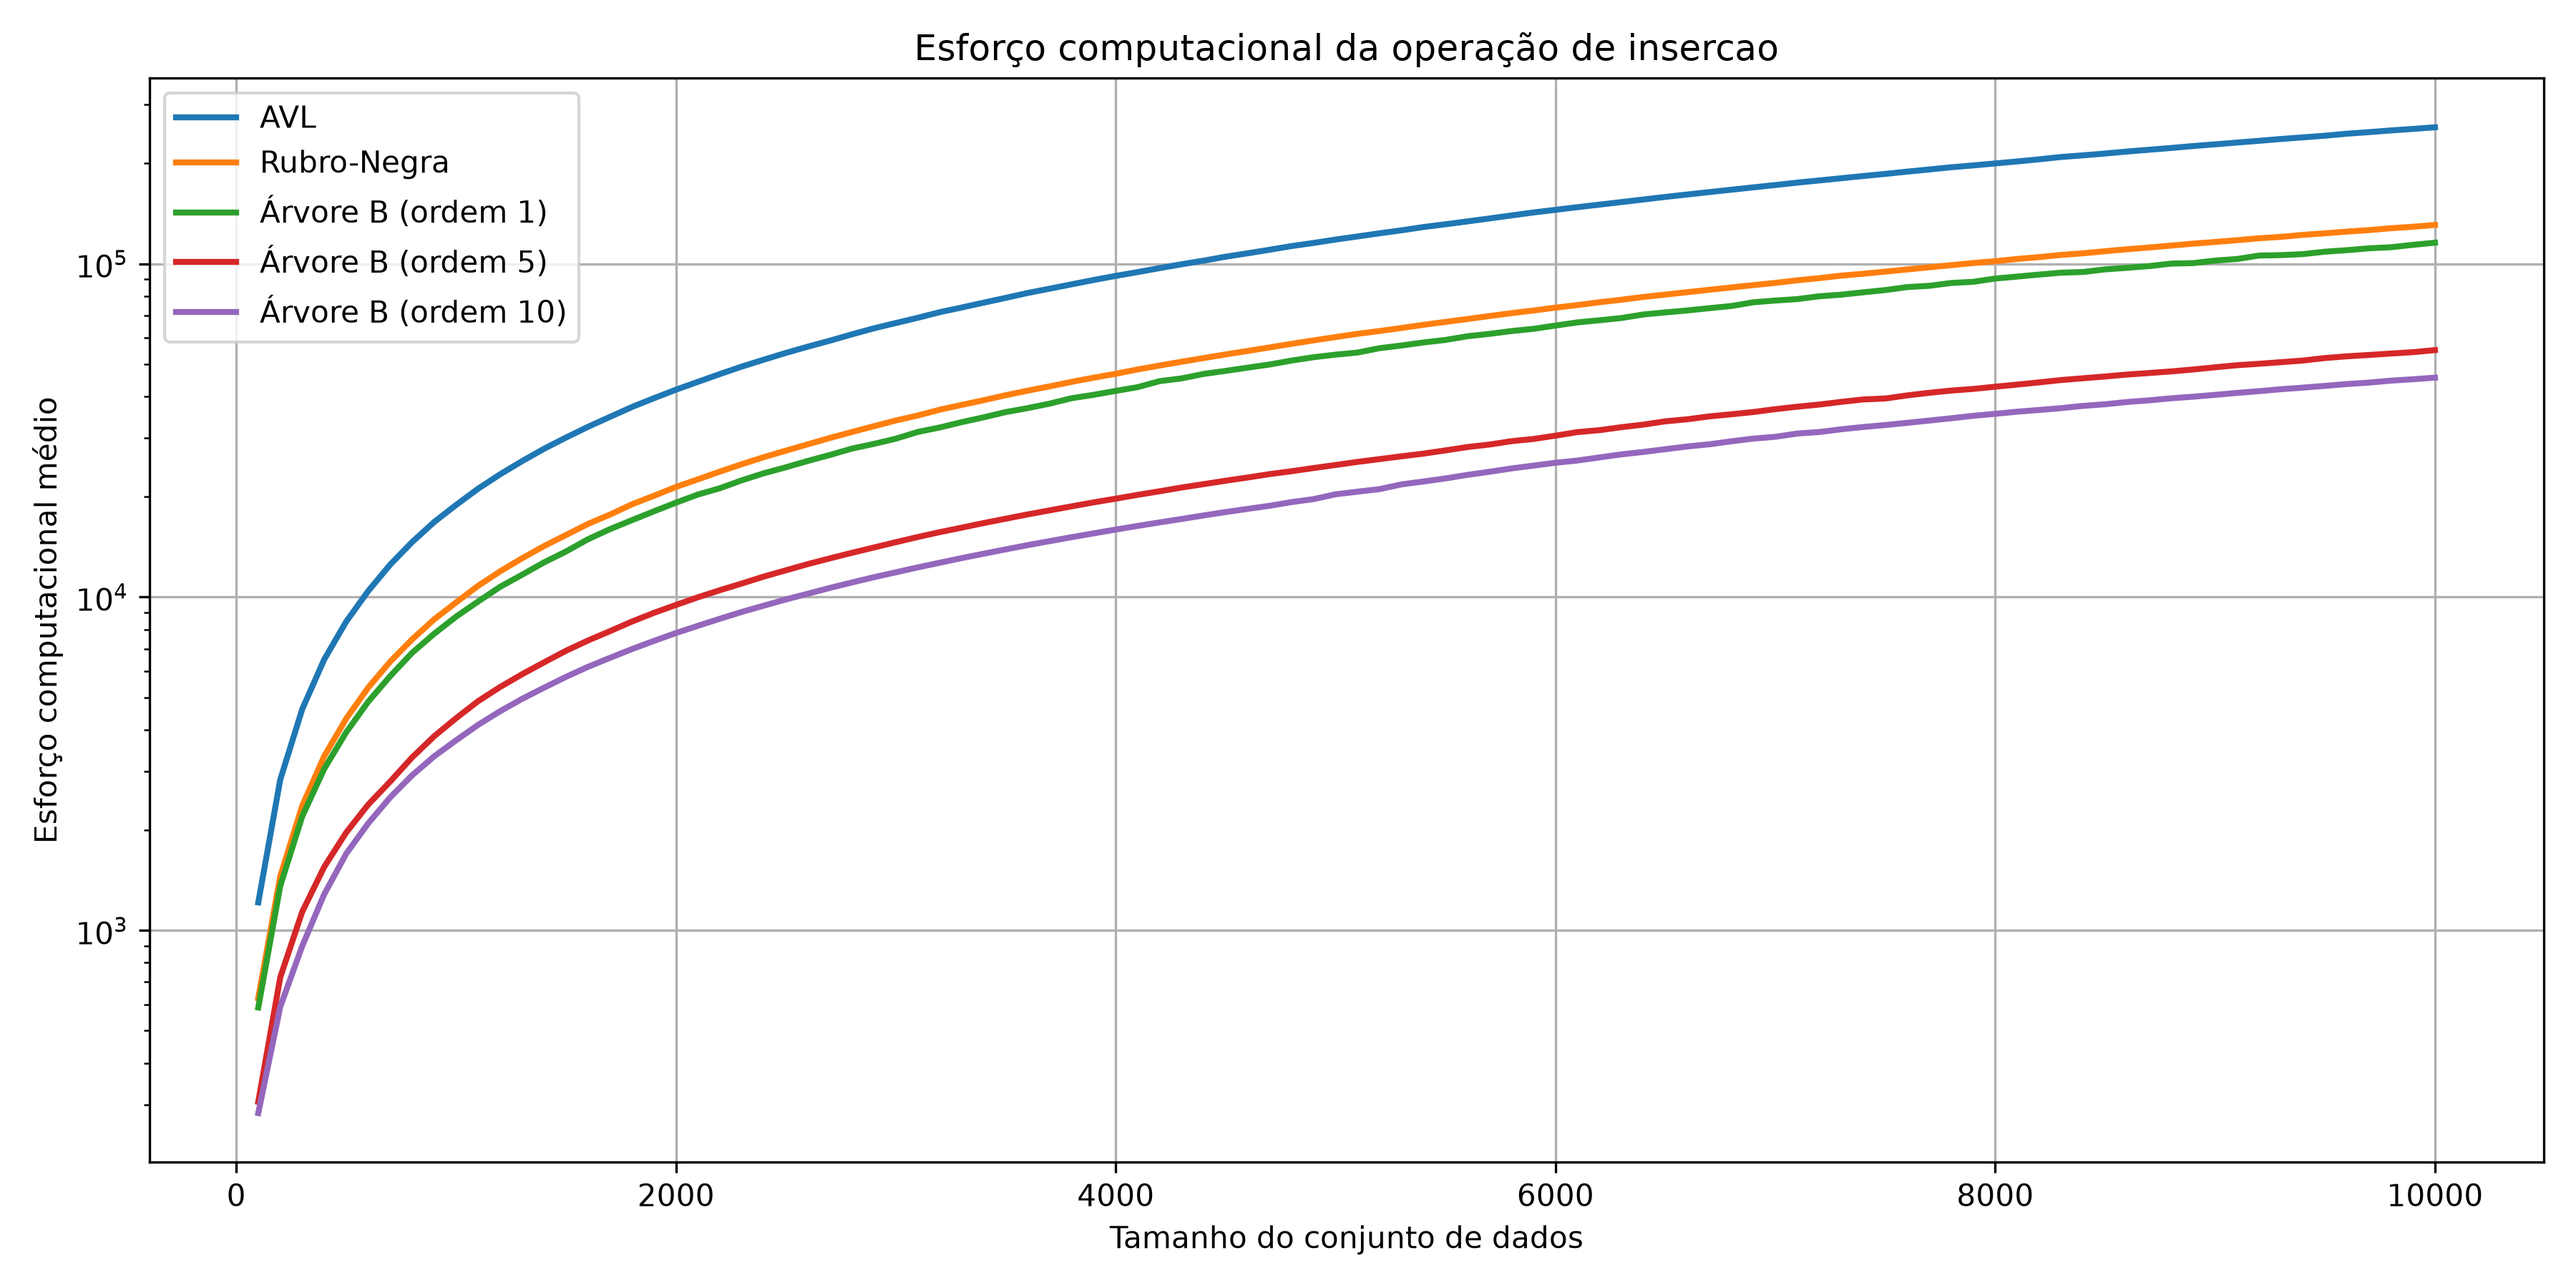
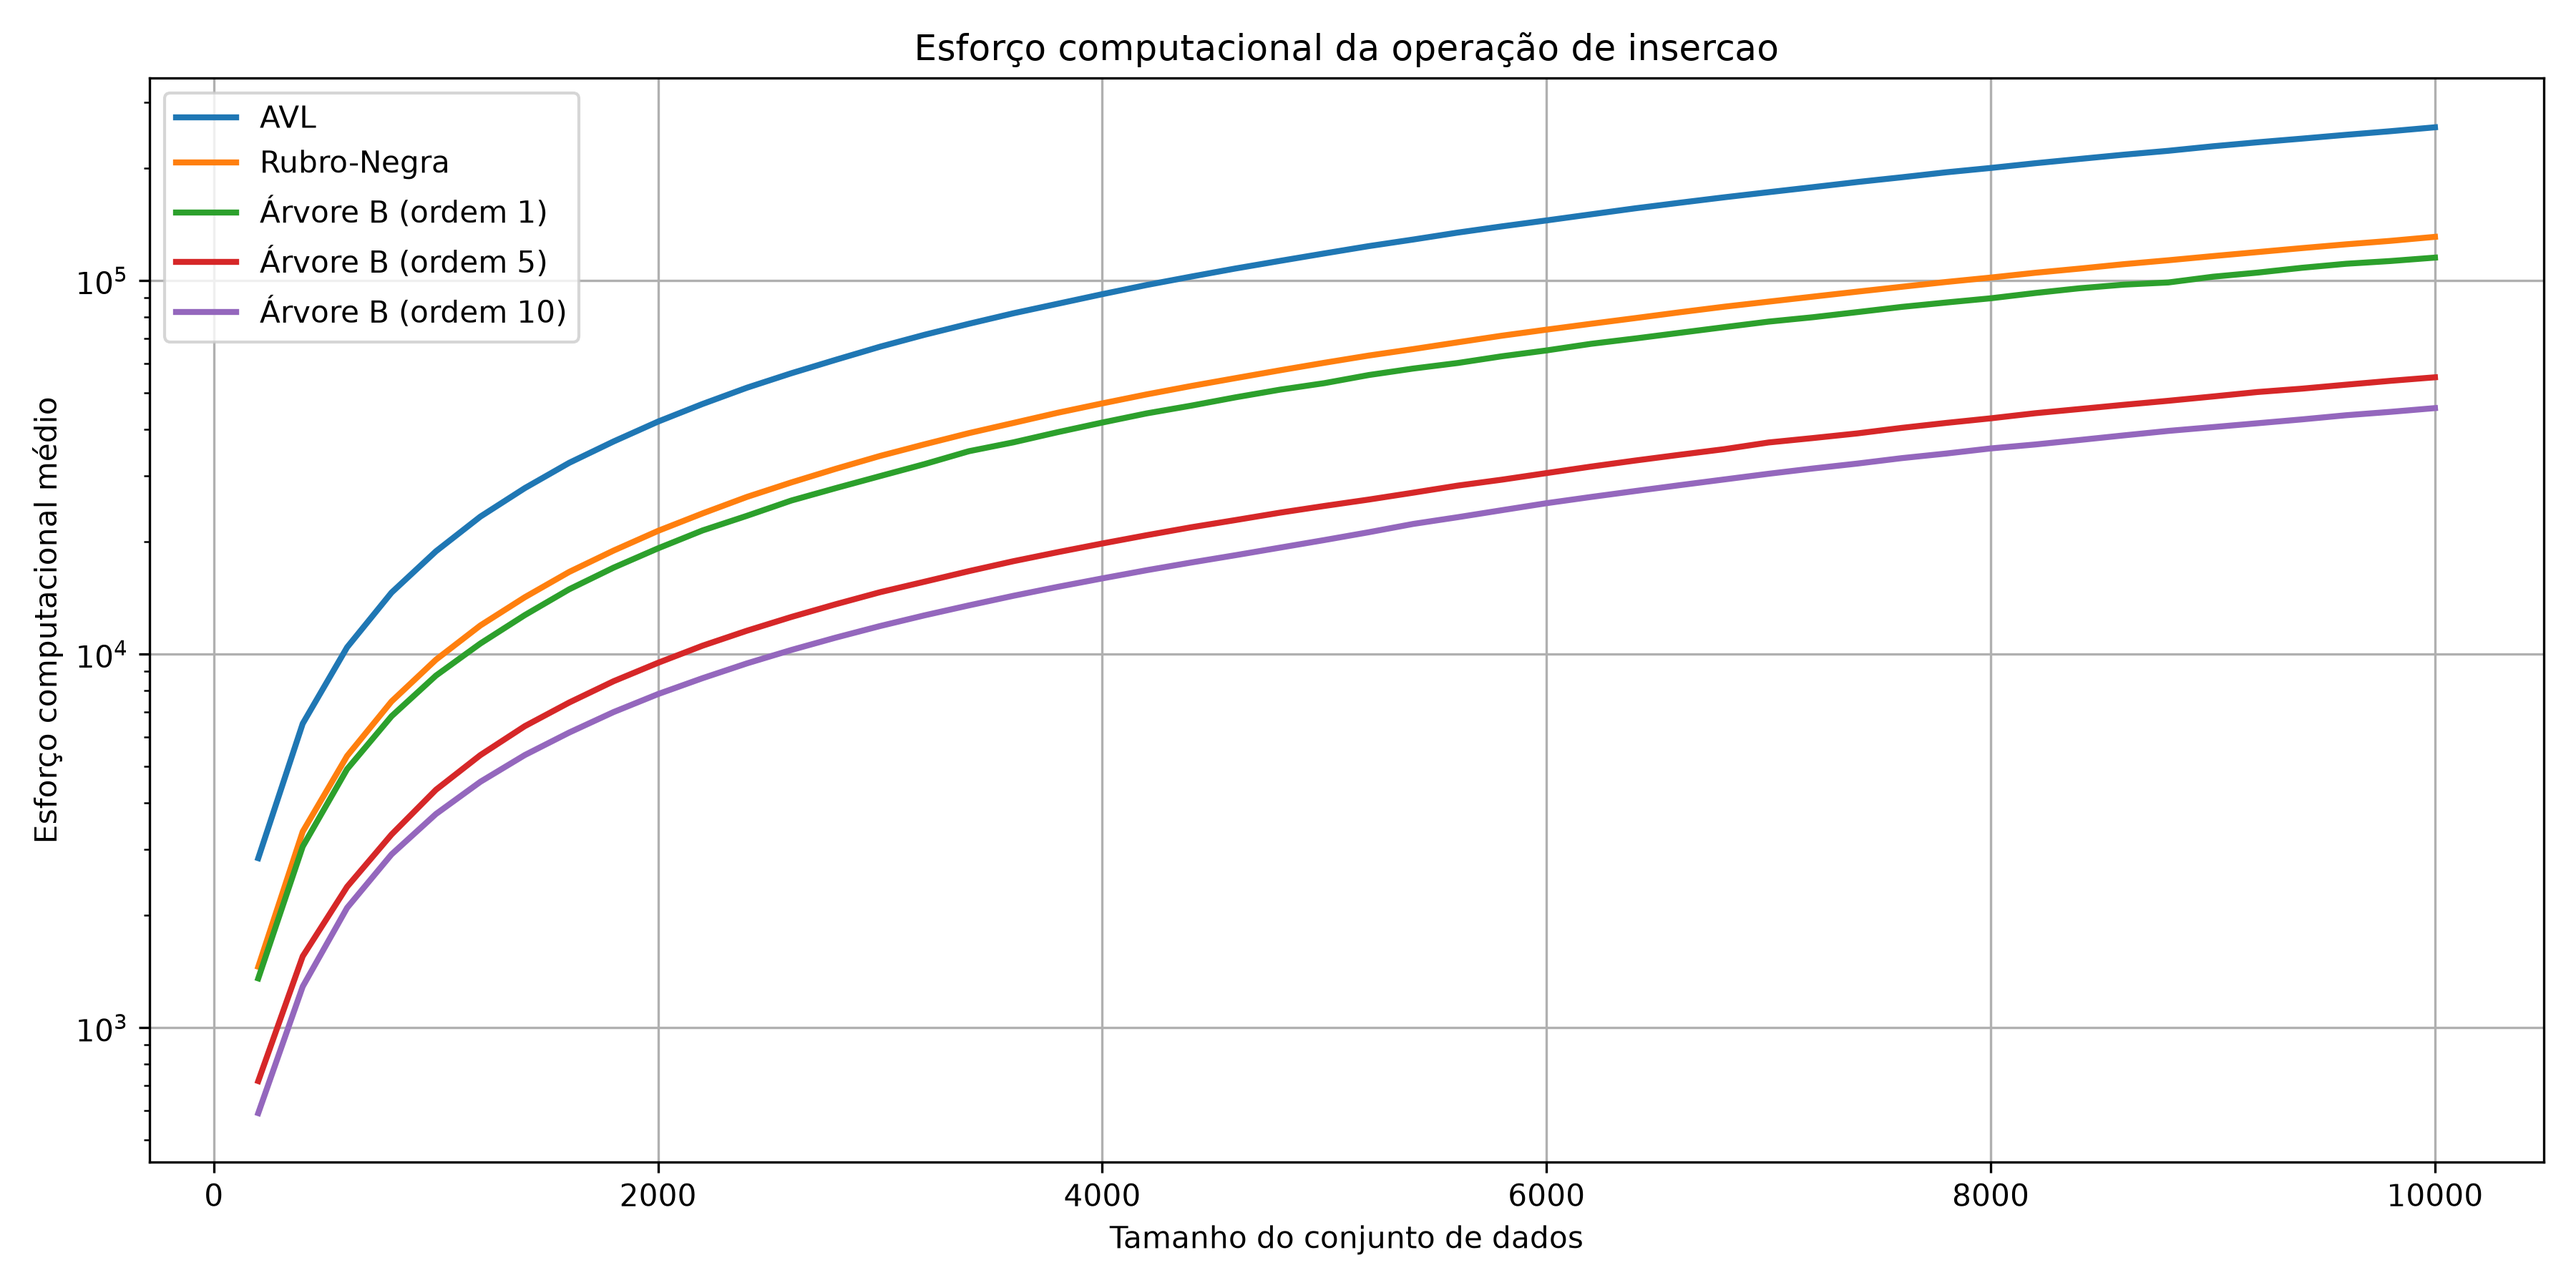
c: Updated the graphics export to include Y logarithmic scale, main.c to generate 100 sets and output

diff --git a/4EDA2/trabalho/main.c b/4EDA2/trabalho/main.c
@@ -3,11 +3,12 @@
 int main(){
     srand(time(NULL));   
 
-    int numAmostras = 10, numConjuntos = 100;
+    int numAmostras = 10, numConjuntos = 50;
     int* nums = malloc(sizeof(int)*numConjuntos);
 
+    int passo = 10000 / numConjuntos;
     for (int n=0; n < numConjuntos; n++) {
-        nums[n] = 100 + 100*n;
+        nums[n] = passo + passo*n;
     }
 
     Conjunto **conjuntos = malloc(sizeof *conjuntos * numConjuntos);  

diff --git a/4EDA2/trabalho/graficos.py b/4EDA2/trabalho/graficos.py
@@ -58,4 +58,4 @@ plt.legend()
 plt.tight_layout()
 plt.savefig("output/grafico_remocao.png", dpi=300)
 
-print("Graficos exportados para \"output\".")
+print("Graficos exportados para \"output/\".")
